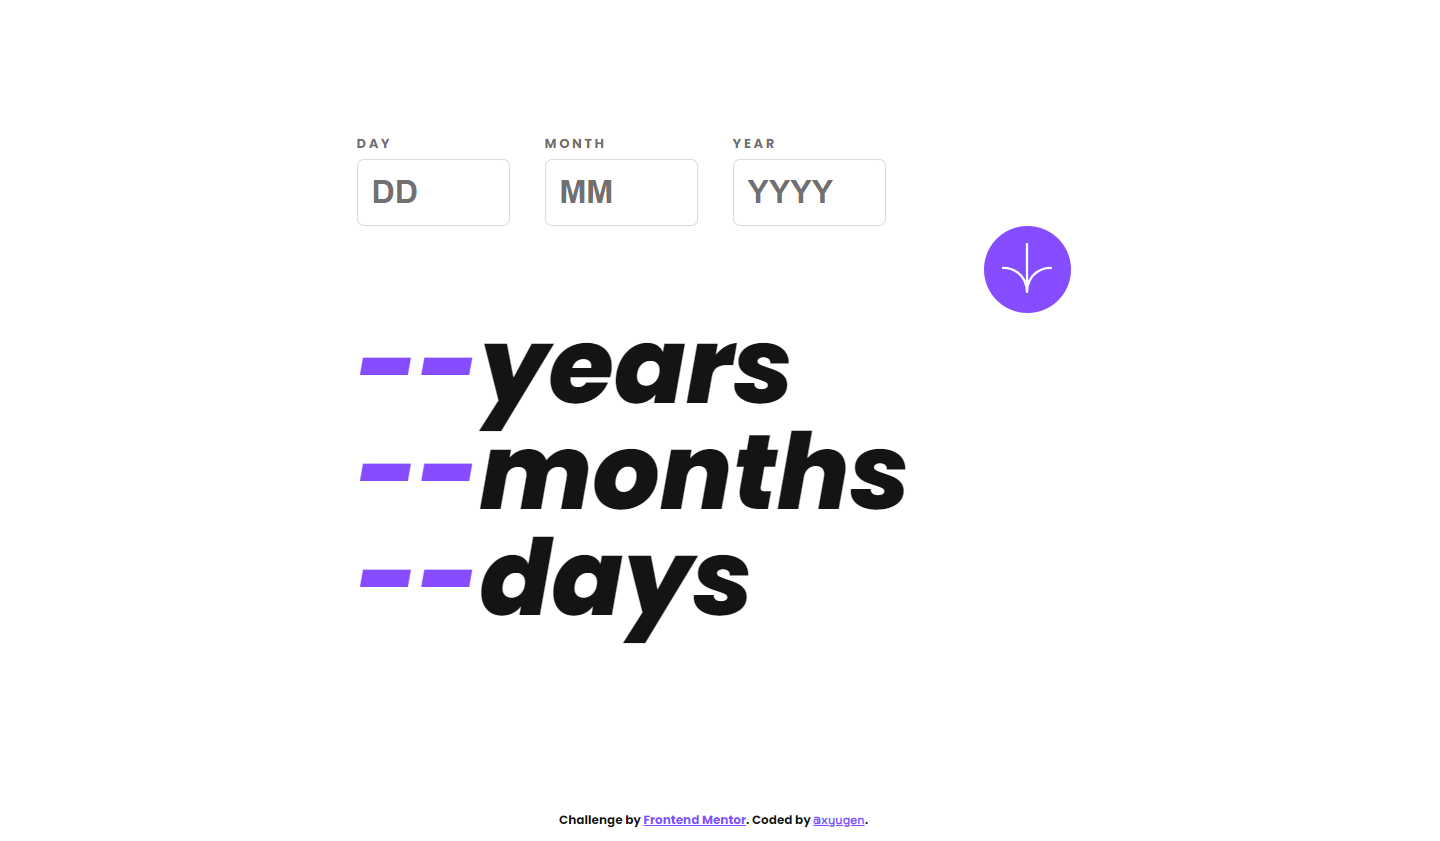
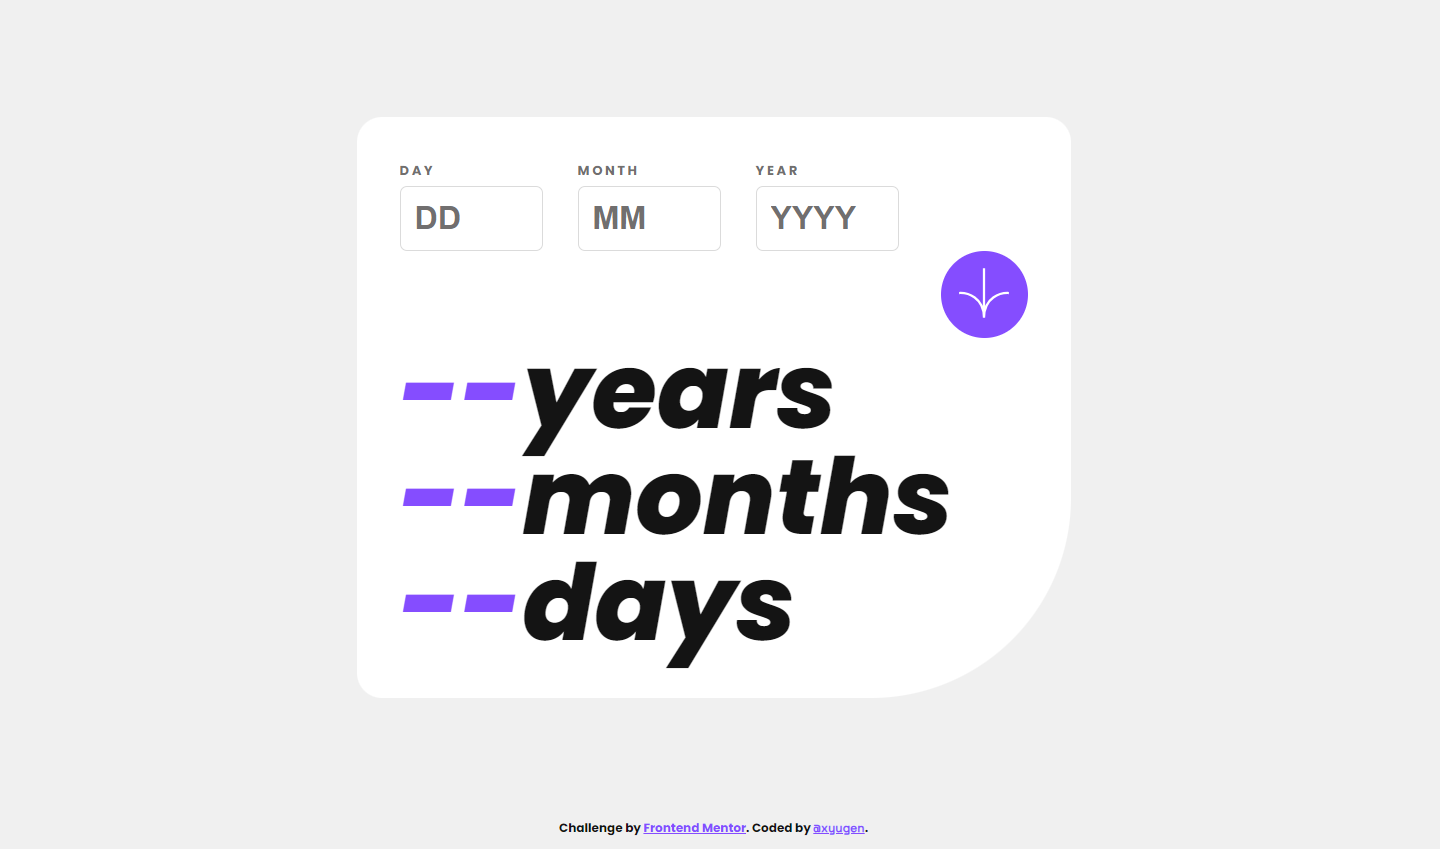
chore: cleanup and changed screenshot

diff --git a/src/style.sass b/src/style.sass
@@ -32,6 +32,9 @@ $transition: 0.15s
 $media-tablet: "only screen and (max-width: 590px)"
 $media-mobile: "only screen and (max-width: 375px)"
 
+*
+    box-sizing: border-box
+
 body
     font-family: $font-stack
     font-weight: $font-weight-bold
@@ -48,9 +51,9 @@ body
 
 .container
     width: 714px
-    height: 531px
+    height: 581px
     background: $color-white
-    padding: 42px 43px
+    padding: 44px 43px
     border-radius: 25px 25px 200px 25px
     .input
         display: flex
@@ -66,7 +69,7 @@ body
                 letter-spacing: $letter-spacing
             input
                 height: 65px
-                width: 123px
+                width: 143px
                 padding: 0 14px    
                 border-radius: 7px
                 border: 1px solid $color-light-gray !important
@@ -129,14 +132,20 @@ footer
 @media #{$media-tablet} 
     body
         font-size: $font-size-regular-mobile
+        width: 97vw
+        display: flex
     .container
         width: auto
         height: auto
+        padding: 42px 21px
+        margin: 0 6px
+        border-radius: 20px 20px 100px 20px
+        margin
         .input
             gap: 14px
             .input-field
                 input
-                    width: 68px
+                    width: 97px
                     height: 50px
                     font-size: $font-size-regular-mobile
                 .alert
@@ -155,29 +164,13 @@ footer
         .result
             font-size: $font-size-large-mobile
 
-@media #{$media-mobile} 
-    body
-        font-size: $font-size-regular-mobile
+@media #{$media-mobile}
     .container
-        width: auto
-        height: auto
         .input
             display: flex
             justify-content: center
-            gap: 14px
             .input-field
                 input
-                    width: 68px
-                    height: 50px
                     font-size: $font-size-regular-mobile
         .submit
             justify-content: center
-            #submit-btn
-                height: 71px
-                width: 71px
-                margin: 50px 0
-                #submit-img
-                    width: 42px
-                    height: 40px
-        .result
-            font-size: $font-size-large-mobile

diff --git a/src/style.css b/src/style.css
@@ -1,4 +1,8 @@
 @import url("https://fonts.googleapis.com/css2?family=Poppins:ital,wght@0,700;1,400;1,800&family=Space+Mono&display=swap");
+* {
+  box-sizing: border-box;
+}
+
 body {
   font-family: "Poppins", sans-serif;
   font-weight: 700;
@@ -16,9 +20,9 @@ body {
 
 .container {
   width: 714px;
-  height: 531px;
+  height: 581px;
   background: #FFFFFF;
-  padding: 42px 43px;
+  padding: 44px 43px;
   border-radius: 25px 25px 200px 25px;
 }
 .container .input {
@@ -38,7 +42,7 @@ body {
 }
 .container .input .input-field input {
   height: 65px;
-  width: 123px;
+  width: 143px;
   padding: 0 14px;
   border-radius: 7px;
   border: 1px solid #DBDBDB !important;
@@ -117,16 +121,21 @@ footer .attribution code {
 @media only screen and (max-width: 590px) {
   body {
     font-size: 19px;
+    width: 97vw;
+    display: flex;
   }
   .container {
     width: auto;
     height: auto;
+    padding: 42px 21px;
+    margin: 0 6px;
+    border-radius: 20px 20px 100px 20px;
   }
   .container .input {
     gap: 14px;
   }
   .container .input .input-field input {
-    width: 68px;
+    width: 97px;
     height: 50px;
     font-size: 19px;
   }
@@ -150,36 +159,14 @@ footer .attribution code {
   }
 }
 @media only screen and (max-width: 375px) {
-  body {
-    font-size: 19px;
-  }
-  .container {
-    width: auto;
-    height: auto;
-  }
   .container .input {
     display: flex;
     justify-content: center;
-    gap: 14px;
   }
   .container .input .input-field input {
-    width: 68px;
-    height: 50px;
     font-size: 19px;
   }
   .container .submit {
     justify-content: center;
-  }
-  .container .submit #submit-btn {
-    height: 71px;
-    width: 71px;
-    margin: 50px 0;
-  }
-  .container .submit #submit-btn #submit-img {
-    width: 42px;
-    height: 40px;
-  }
-  .container .result {
-    font-size: 57px;
   }
 }/*# sourceMappingURL=style.css.map */

diff --git a/index.html b/index.html
@@ -19,7 +19,7 @@
       </div>
       <div class="input-field month">
         <label for="input-month" id="month-label">MONTH</label>
-        <input type="number" class="data-input" id="input-month" name="month" placeholder="MM" maxlength="2" min="1" max="12" required />
+        <input type="number" class="data-input" id="input-month" name="month" placeholder="MM" min="1" max="12" required />
         <p class="alert" id="month-alert"></p>
       </div>
       <div class="input-field year">
